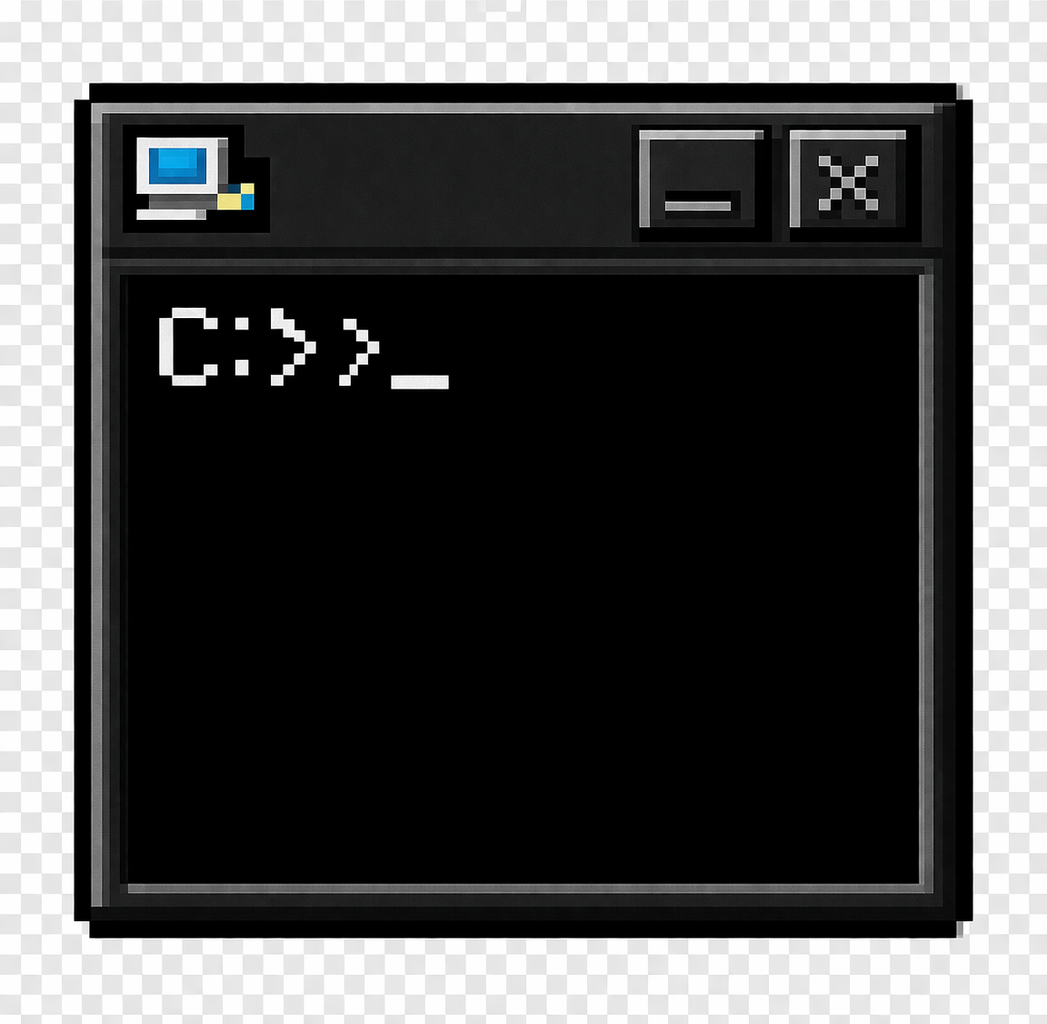
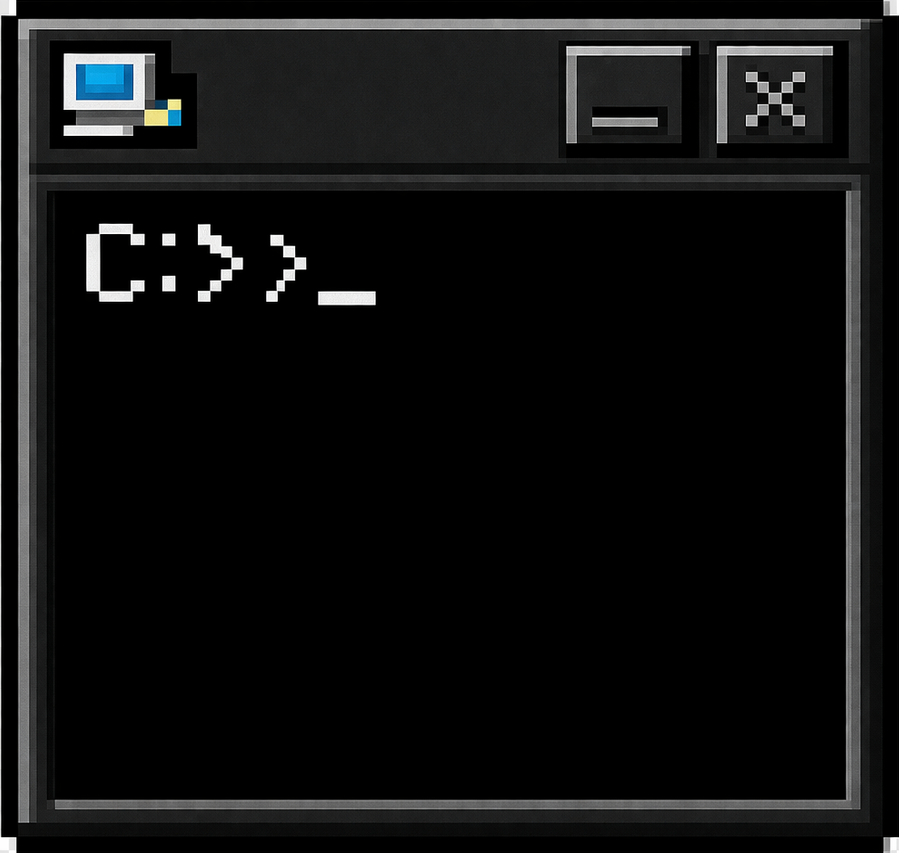
Implemented Terminal

diff --git a/app/page.tsx b/app/page.tsx
@@ -44,6 +44,7 @@ import ClockApp from '@/src/Components/ClockApp/ClockApp';
 import Settings from '@/src/Components/Settings/Settings';
 import Contacts from '@/src/Components/Contacts/Contacts';
 import Minesweeper from '@/src/Components/Minesweeper/Minesweeper';
+import Terminal from '@/src/Components/Terminal/Terminal';
 
 const GlobalStyles = createGlobalStyle<{ wallpaper: string }>`
   ${styleReset}
@@ -128,6 +129,7 @@ export default function App() {
   const [isSettingsOpen, setIsSettingsOpen] = useState(true)
   const [isContactsOpen, setIsContactsOpen] = useState(false)
   const [isMineOpen, setIsMineOpen] = useState(false)
+  const [isTerminalOpen, setIsTerminalOpen] = useState(false)
 
   const toggleResume = () => setIsResumeOpen(!isResumeOpen);
   const closeResume = () => setIsResumeOpen(false);
@@ -136,6 +138,7 @@ export default function App() {
   const toggleContacts = () => setIsContactsOpen(!isContactsOpen)
   const toggleProjects = () => setIsProjectsOpen(!isProjectsOpen);
   const toggleMine = () => setIsMineOpen(!isMineOpen)
+  const toggleTerminal = () => setIsTerminalOpen(!isTerminalOpen)
   return (
     <ThemeProvider theme={themeMap[themeName]}>
       <GlobalStyles wallpaper={wallpaper} />
@@ -152,6 +155,7 @@ export default function App() {
       <AppIcon title='Settings' path='/images/settings.png' onDoubleClick={toggleSettings}></AppIcon>
       <AppIcon title='Contacts' path='/images/contact.png' onDoubleClick={toggleContacts}></AppIcon>
       <AppIcon title='Minesweeper' path='images/minesweeper.svg' onDoubleClick={toggleMine}></AppIcon>
+      <AppIcon title='cmd' path='images/cmd2.png' onDoubleClick={toggleTerminal}></AppIcon>
 
 
 
@@ -187,6 +191,7 @@ export default function App() {
 
         }
         {isMineOpen && <Minesweeper onClose={toggleMine}></Minesweeper>}
+        {isTerminalOpen && <Terminal onClose={toggleTerminal}></Terminal>}
       <AppBar
         style={{
           position: 'fixed',

diff --git a/src/Components/Terminal/Terminal.tsx b/src/Components/Terminal/Terminal.tsx
@@ -205,7 +205,8 @@ export default function Terminal({ onClose }: TerminalProps) {
     <Draggable nodeRef={nodeRef} handle=".window-header" bounds="parent">
       <Window ref={nodeRef} style={{ width: '700px', position: 'absolute', top: '10%', left: '20%', zIndex: 110 }}>
         <WindowHeader className="window-header" style={{ display: 'flex', justifyContent: 'space-between', alignItems: 'center' }}>
-          <span>💻 MS-DOS Prompt</span>
+            <img src={'images/cmd2.png'} width={28} height={28}/>
+          <span>MS-DOS Prompt</span>
           <Button onClick={onClose}><span style={{ fontWeight: 'bold' }}>x</span></Button>
         </WindowHeader>
         
